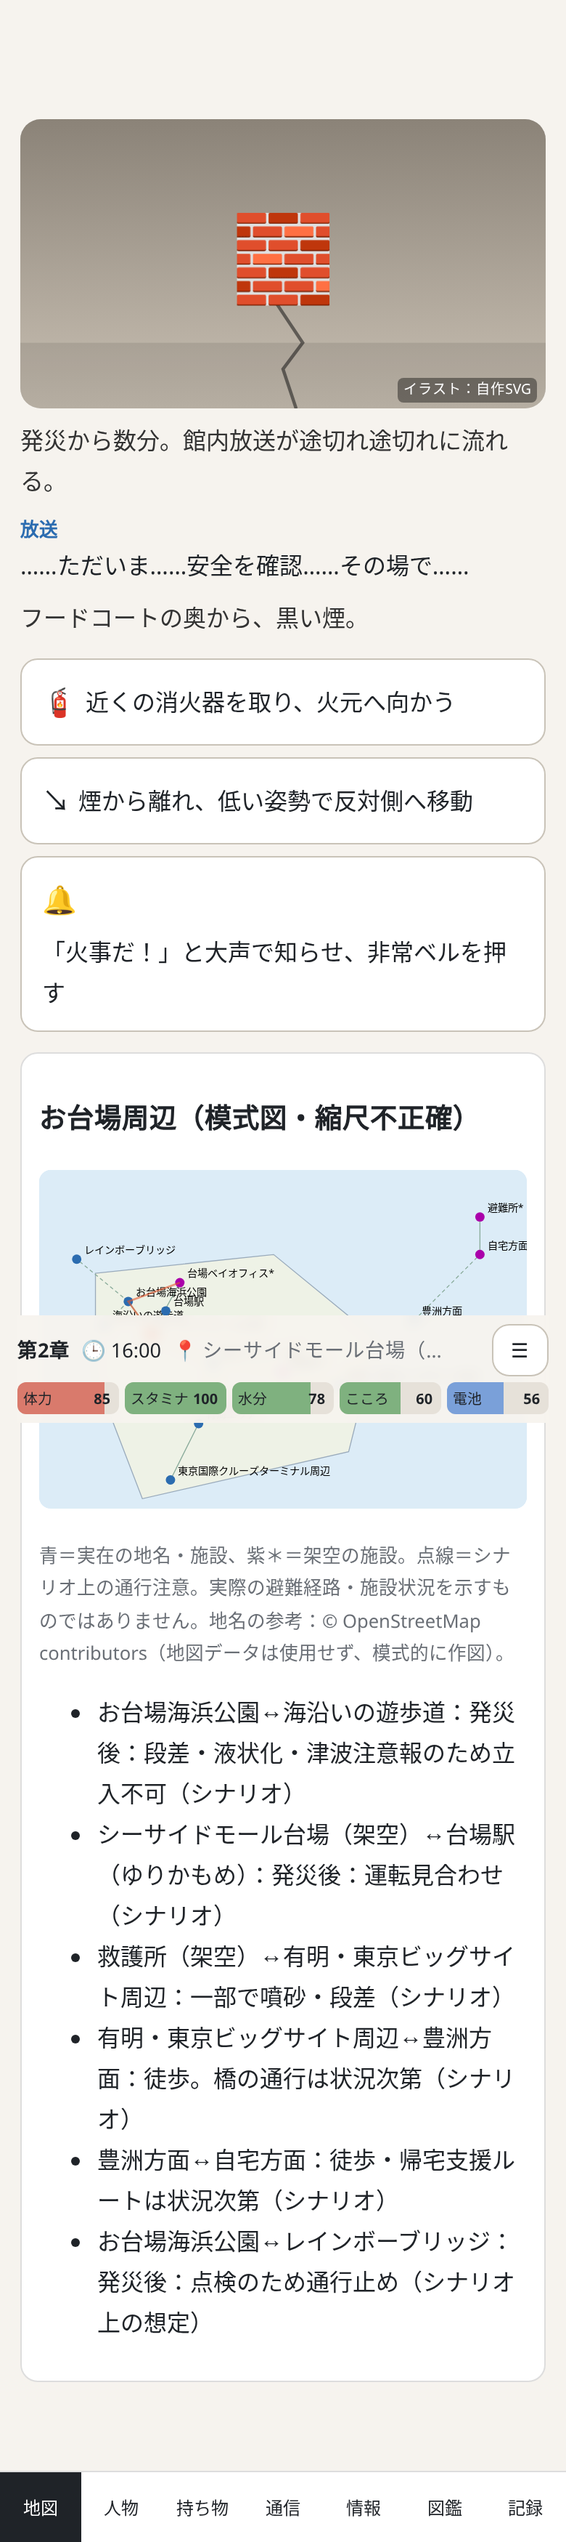
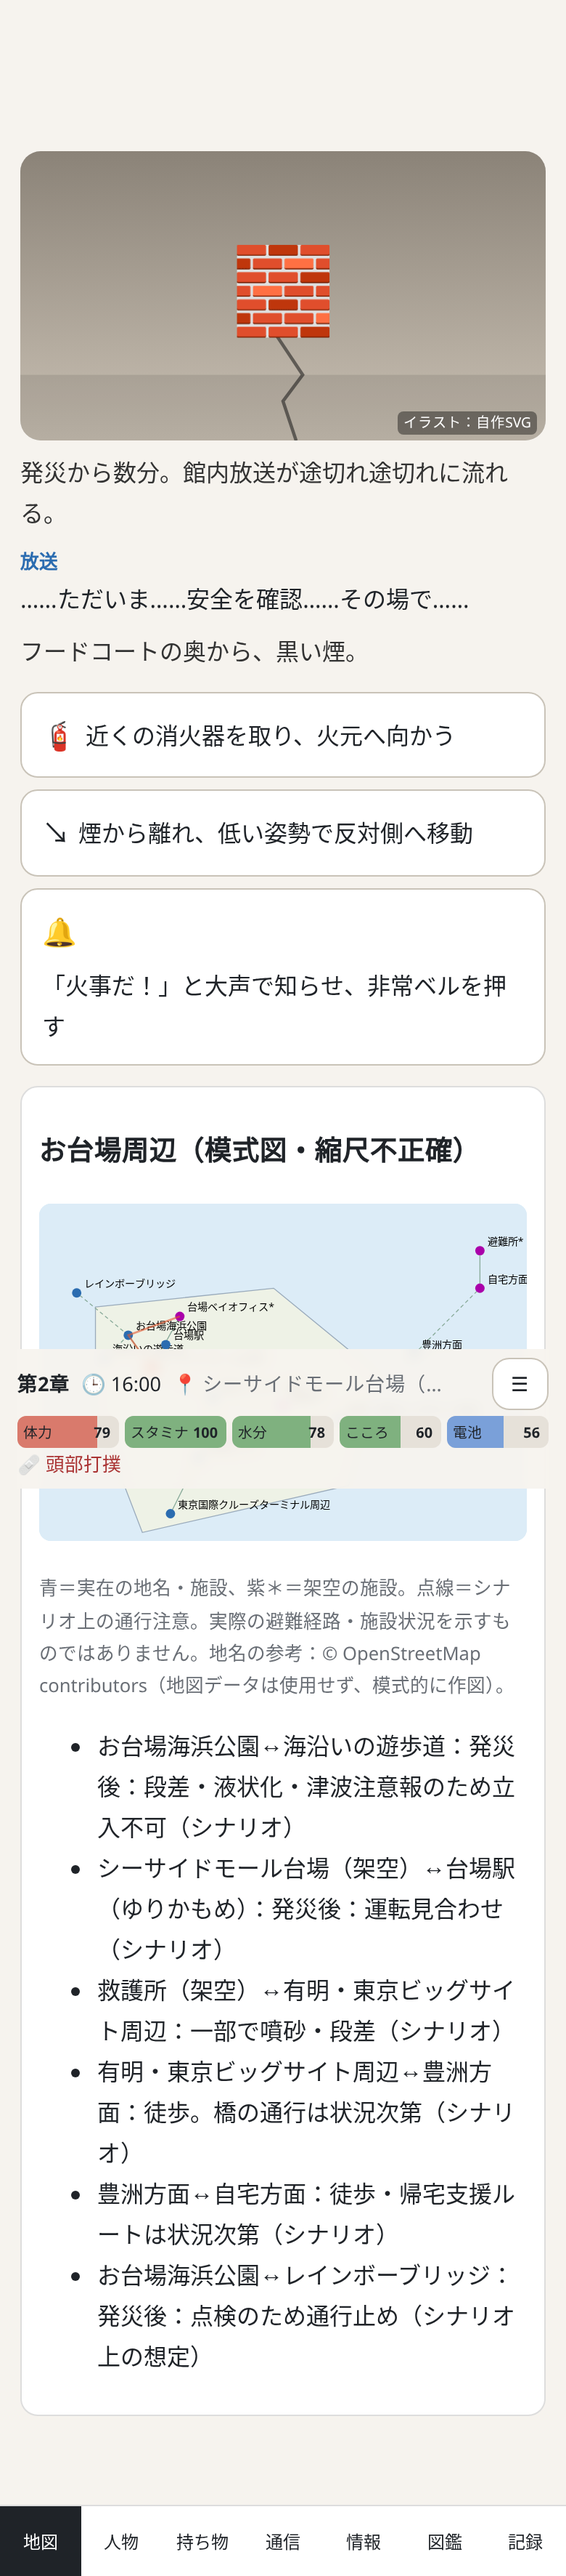
Stage 13: ch3 night route interludes

diff --git a/src/data/scenes6z.ts b/src/data/scenes6z.ts
@@ -109,5 +109,137 @@ export const ch6z: Scene[] = [
     ['同僚', '安藤さん！'],
     ['{fam1}', 'はい、今行きます。'],
   ], { next: 'c2_end' }),
+  // ==== Stage 13: ch3 ルート別「夜の入口」 ====
+  S('c3w_nA', 3, 'crowd', [
+    ['', '施設の入口近くで、職員が、段ボールを配っていた。床に敷くための段ボール。一人一枚。'],
+    ['職員', '床は冷えます。直接寝ないで、一枚でも敷いてください（※この施設は架空です）。'],
+    ['', '{me}は、段ボールを受け取った。飲料メーカーのロゴ。「天然水 2L×6」。中身は、もう、ない。'],
+    ['', '仕事柄、段ボールの扱いには慣れている。{me}は、それを二つに折り、角を重ねて、少しでも厚みが出るように敷いた。手が、勝手に動いた。毎日やっていることだから。'],
+    ['', '隣で、スーツ姿の年配の男が、段ボールの前で途方に暮れていた。どこを折ればいいのか、分からないらしい。'],
+  ], { choices: [
+      C('box_help', '「こう折ると、少し厚くなりますよ」と、やってみせる', 'c3w_nB', { icon: '📦', effects: { mental: 3, flag: 'helped_box' }, result: '男は、何度もうなずいて、真似をした。「長いこと、紙の上の仕事しかしてこなかったもので」。照れくさそうに笑う顔は、陽菜のクラスの、校長先生に少し似ていた。' }),
+      C('box_self', '自分の場所を整えて、早めに体を休める', 'c3w_nB', { icon: '🛌', effects: { stamina: 3 }, result: '段ボールの上に座ると、床の冷たさが、ほんの少し遠くなった。たった一枚の紙が、こんなに違う。' }),
+    ] }),
+  S('c3w_nB', 3, 'crowd', [
+    ['', '夜八時を過ぎたころ、配給の列ができた。水のペットボトルが一本と、乾パンの缶が一つ。'],
+    ['', '{me}は、缶を開けた。乾パンの間に、小さな袋が入っていた。氷砂糖。陽菜が、ずっと前に、防災訓練で食べて「宝石みたい」と言っていたやつだ。'],
+    ['', '{me}は、氷砂糖を一つ、口に入れた。甘さが、ゆっくりと、舌の上で溶けていく。宝石みたい、とは思わなかった。ただ、甘かった。それで、十分だった。'],
+    ['', '残りの氷砂糖を、ハンカチに包んで、胸ポケットにしまった。陽菜に、見せよう。「パパ、宝石、もらったよ」って。'],
+    ['', '水は、半分だけ飲んだ。一気に飲みたかった。でも、明日の朝、もう一本もらえるとは限らない（※配給の内容・頻度は架空・要監修）。'],
+  ], { onEnter: { know: 'k_water' }, next: 'c3w_nC' }),
+  S('c3w_nC', 3, 'crowd', [
+    ['', '照明が半分に落とされた。ホールのあちこちで、スマホの画面だけが、小さな青い窓のように光っている。'],
+    ['', '{me}は、手帳を開いた。白いページ。ボールペンの先を、何度か紙に押し当てて、それから、書きはじめた。'],
+    ['', '「ひなへ。パパは、だいじょうぶです。きょうは、おだいばの、大きなたてものに、とまります。ここには、たくさんの人がいて、みんなで、ねます。」'],
+    ['', '「ひなの、おりがみのおてがみ、まだ、あけてないよね。パパも、ひなに、おてがみをかいたよ。あうときに、こうかんしよう。」'],
+    ['', 'ひらがなだけで書くのは、思ったより難しかった。漢字を使いそうになって、何度も手が止まった。陽菜は、二年生だ。漢字は、まだ、少ししか読めない。'],
+    ['', '最後に、{me}は、下手くそな餃子の絵を描いた。六十個は、描けなかった。三つだけ。三人分。'],
+  ], { next: 'c3w_nD' }),
+  S('c3w_nD', 3, 'crowd', [
+    ['', '夜中、床が揺れた。'],
+    ['', 'ホールのあちこちで、短い悲鳴が上がった。誰かが、「大丈夫、大丈夫」と、自分に言い聞かせるように繰り返している。天井の照明が、かすかに鳴った。'],
+    ['', '揺れは、すぐにおさまった。余震だ。大きな地震のあとは、しばらく余震が続くことがある（※k_aftershock）。分かっている。分かっていても、心臓は、言うことを聞かない。'],
+    ['', '{me}は、手帳を胸に抱いたまま、天井を見上げていた。陽菜も、今、どこかで、この揺れを感じたのだろうか。千夏の腕の中で。体育館の、冷たい床の上で。'],
+    ['', '（大丈夫。千夏がいる。千夏は、おれより、ずっと、しっかりしてる）'],
+    ['', 'そう思ったら、なぜか、少し笑えた。笑ったら、目の奥が、熱くなった。{me}は、腕で目を覆った。誰にも、見られないように。'],
+  ], { onEnter: { know: 'k_aftershock' }, next: 'c3w_nE' }),
+  S('c3w_nE', 3, 'crowd', [
+    ['', '眠れないまま、トイレに立った。廊下の窓から、外が見えた。'],
+    ['', '街の灯りが、ところどころ、欠けていた。いつもなら、隙間なく光っているはずの夜景に、黒い穴が、いくつも空いている。'],
+    ['', 'それでも、灯りは、まだ、たくさん残っていた。あの一つ一つの下に、誰かがいる。誰かを待っている誰かがいる。'],
+    ['', 'トイレの前には、細い列ができていた。誰も、文句を言わなかった。列の一番後ろで、{me}は、長い時間、待った。待つのは、もう、慣れた。今日一日で、一生分、待った気がする。'],
+    ['', '戻ると、さっきのスーツの男が、小さないびきをかいていた。その音が、なぜか、{me}を安心させた。人が眠れる場所に、自分はいる。'],
+  ], { onEnter: { know: 'k_infection' }, next: 'c3_hub' }),
+
+  S('c3s_nA', 3, 'crowd', [
+    ['', '施設の受付の横に、手書きの貼り紙があった。「外国語の分かる方、お手伝いをお願いします」（※この施設は架空です）。'],
+    ['', '{me}は、少し迷った。英語は、大学の授業で習った程度。ゼミの留学生と、片言で話すくらい。'],
+    ['', '受付の前では、ベトナム語らしい言葉で話す若い女性が、職員に何かを必死に伝えようとしていた。職員は、困った顔で、身振り手振りを繰り返している。'],
+  ], { choices: [
+      C('help_trans', '「英語なら、少しだけ」と、手を挙げる', 'c3s_nB', { icon: '🙋', effects: { mental: 2, flag: 'helped_trans', know: 'k_foreign' }, result: '女性は、ほっとしたように、英語に切り替えた。「薬。母の、薬。バッグに、入れてきた。でも、飲む時間、分からない」。{me}の英語は、ぎこちなかった。それでも、言葉は、ちゃんと、届いた。' }),
+      C('find_lin', '近くにいた留学生ボランティアを呼んでくる', 'c3s_nB', { icon: '🏃', effects: { flag: 'helped_trans', know: 'k_foreign' }, result: '腕章をつけた留学生——リンと名乗った——が、すぐに来てくれた。ベトナム語で二言三言。女性の顔から、すっと力が抜けた。言葉が通じるということは、それだけで、手当てなのだと思った。' }),
+    ] }),
+  S('c3s_nB', 3, 'crowd', [
+    ['', '騒ぎがおさまると、{me}は、ホールの壁際に座りこんだ。'],
+    ['', '隣には、九十歳近いおばあさんが、ちょこんと座っていた。白い割烹着のような上着。小さな手提げ袋を、膝の上で、ぎゅっと握っている。'],
+    ['おばあさん', 'お嬢さん、大学生？'],
+    ['{me}', 'はい。……民俗学、やってます。'],
+    ['おばあさん', 'みんぞくがく。昔のことを調べる学問ね。'],
+    ['{me}', '昔の人が、どうやって暮らしてたか、とか。どうやって、災害を乗り越えてきたか、とか。'],
+    ['おばあさん', 'あら。じゃあ、今日のことも、いつか、誰かに調べられるのかしらね。'],
+    ['', 'おばあさんは、楽しそうに笑った。{me}は、笑えなかった。今日のことが、いつか、本のページになる。誰かのゼミの、レジュメになる。'],
+  ], { next: 'c3s_nC' }),
+  S('c3s_nC', 3, 'crowd', [
+    ['おばあさん', 'わたしね、小さいとき、空襲で、家が焼けたの。'],
+    ['', 'おばあさんは、手提げ袋の口を、指先でいじりながら言った。'],
+    ['おばあさん', 'そのあとも、いろいろあったわ。台風も、地震も。でも、そのたびに、誰かが、おにぎりをくれたの。知らない人よ。名前も知らない人。'],
+    ['おばあさん', 'だからね、わたし、今日、知らない人に、飴をあげたの。三つ。もう、ないけど。'],
+    ['', 'おばあさんは、空っぽになった飴の袋を、{me}に見せた。誇らしそうに。'],
+    ['', '{me}は、祖母の顔を思い出した。猫のスタンプ。羊羹。「葵ちゃん、ちゃんと食べてる？」。祖母も、きっと、同じことをする人だ。どこにいても。'],
+    ['', '{me}は、ノートを取り出した。ゼミで使っている、聞き取り調査用のノート。最初のページに、日付を書いた。それから、「話者：青海の施設で隣に座った女性（九十歳近い）」と書いた。'],
+  ], { next: 'c3s_nD' }),
+  S('c3s_nD', 3, 'crowd', [
+    ['', '夜が深くなると、充電の列ができた。施設に、いくつか延長コードが用意されていて、一人十五分ずつ（※充電の運用は架空・要監修）。'],
+    ['', '{me}の前に並んでいた高校生の男の子が、自分の番が来ると、振り返って言った。'],
+    ['男の子', 'あの……おれ、もう、親と連絡ついたんで。先、どうぞ。'],
+    ['{me}', 'え、でも——'],
+    ['男の子', 'いいんです。お姉さん、さっきから、ずっと画面見てるから。'],
+    ['', '{me}は、顔が熱くなった。見られていた。蓮のメッセージ欄を、何度も開いては閉じるのを。'],
+    ['', '十五分で、電池は、六パーセント増えた。たった六パーセント。でも、六パーセントあれば、もう一度、蓮に送れる。もう一度、171を聞ける（※k_battery）。'],
+  ], { onEnter: { know: 'k_battery', battery: 6 }, next: 'c3s_nE' }),
+  S('c3s_nE', 3, 'crowd', [
+    ['', '夜中、余震が来た。短く、鋭く。'],
+    ['', '{me}は、反射的に頭を抱えた。隣のおばあさんは、ぴくりともしなかった。目を閉じたまま、小さく、何かを唱えている。お経のような、歌のような。'],
+    ['', '揺れがおさまると、おばあさんは、目を開けて言った。'],
+    ['おばあさん', '大丈夫。揺れたら、また、おさまるの。いつも、そう。'],
+    ['', 'その言葉は、科学ではなかった。統計でも、防災の知識でもなかった。でも、{me}は、ノートに、それを書き留めた。「揺れたら、また、おさまる」。'],
+    ['', '書き終えて、顔を上げると、ホールの高い窓の向こうで、月が、少しだけ傾いていた。'],
+  ], { onEnter: { know: 'k_aftershock' }, next: 'c3_hub' }),
+
+  S('c3p_nA', 3, 'crowd', [
+    ['', '施設の隅に、「乳幼児のいる方」と書かれた貼り紙があった。仕切りのパネルで囲まれた、小さな一角（※この施設・運用は架空です）。'],
+    ['職員', 'お子さん連れの方は、こちらもお使いください。夜泣きなど、お互いさまなので。'],
+    ['', '{me}は、律を抱いて、その一角に入った。中には、三組の家族がいた。赤ちゃんを抱いた夫婦。双子の女の子を連れたおばあちゃん。それから、律と同じくらいの男の子を連れた、若い父親。'],
+    ['若い父親', '……どうも。'],
+    ['{me}', 'どうも。'],
+    ['', '二人の父親は、目を合わせて、小さく頭を下げた。それだけで、何かが、通じた気がした。'],
+  ], { onEnter: { know: 'k_vulnerable' }, next: 'c3p_nB' }),
+  S('c3p_nB', 3, 'crowd', [
+    ['', '律と、若い父親の息子——ユウと呼ばれていた——は、すぐに仲良くなった。五歳同士は、自己紹介に、言葉をほとんど必要としない。'],
+    ['{fam2}', 'ぼく、りつ。きょう、うみ、いった。'],
+    ['ユウ', 'ぼくも、うみ、いった。ゆれた。'],
+    ['{fam2}', 'ゆれたね。'],
+    ['ユウ', 'ゆれた。'],
+    ['', 'それだけ言うと、二人は、段ボールの上で、光らなくなった律の靴を、交互に踏み始めた。光らない。光らない。それが、なぜか、おかしいらしい。二人は、転げるように笑った。'],
+    ['若い父親', '……笑ってる。今日、初めて。'],
+    ['', '若い父親の声が、少し、震えていた。{me}は、何も言わなかった。言わなくても、分かったから。'],
+  ], { next: 'c3p_nC' }),
+  S('c3p_nC', 3, 'crowd', [
+    ['', '夜十時。律が、ぐずり始めた。'],
+    ['{fam2}', 'ママ……ママは？'],
+    ['', '今日、何度目かの質問だった。今までは、「お仕事だよ」で、なんとか済んできた。でも、夜は、違う。夜は、ママが、絵本を読んでくれる時間だ。'],
+    ['{fam2}', 'ママがいい。ママの、ほん、よんで。'],
+  ], { choices: [
+      C('story_make', '絵本がないので、即興でお話を作って聞かせる', 'c3p_nD', { icon: '📖', effects: { mental: 4, flag: 'told_story' }, result: '「むかしむかし、光らない靴がありました。靴は、今日、たくさん走って、とても疲れていました」。お話は、めちゃくちゃだった。途中で、靴が海に行ったり、貝殻と友達になったりした。律は、最後まで聞かずに、眠った。' }),
+      C('story_song', '美咲がいつも歌う子守歌を、思い出しながら歌う', 'c3p_nD', { icon: '🎵', effects: { mental: 3 }, result: '歌詞は、半分しか覚えていなかった。残りの半分は、ハミングでごまかした。律は、健司の胸に耳を当てて、「パパ、へた」と言った。それから、すうっと眠った。' }),
+    ] }),
+  S('c3p_nD', 3, 'crowd', [
+    ['', '律が眠ると、健司は、ようやく、自分の体の重さに気づいた。肩が、腕が、腰が、鉛のように重い。今日一日、ずっと、律を抱いて、走って、歩いて、立っていた。'],
+    ['', '若い父親が、紙コップを差し出した。水。'],
+    ['若い父親', 'ずっと座ってると、足、むくみますよ。うちの嫁、看護師で。ときどき足首、回せって、うるさいんです（※エコノミークラス症候群の予防・k_dvt）。'],
+    ['{me}', '……うちも、看護師です。'],
+    ['若い父親', 'え。'],
+    ['', '二人は、顔を見合わせて、それから、声を殺して笑った。看護師の夫同士。今ごろ、二人の妻は、どこかの病院で、眠らずに働いている。'],
+    ['', '健司は、言われたとおり、足首をゆっくり回した。美咲に、ちゃんとやったよ、と報告できるように。'],
+  ], { onEnter: { know: 'k_dvt' }, next: 'c3p_nE' }),
+  S('c3p_nE', 3, 'crowd', [
+    ['', '深夜、律が、突然、泣き叫んだ。'],
+    ['{fam2}', 'やだ！ゆれる！ゆれる！'],
+    ['', '揺れては、いなかった。夢だ。律は、目を閉じたまま、手足をばたつかせている。'],
+    ['', '健司は、律を抱きしめた。強すぎないように。でも、離さないように。「大丈夫。パパ、いるよ。パパ、ここにいるよ」。何度も、何度も。'],
+    ['', '子どもは、怖い体験のあと、夜泣きや、甘えが強くなることがある。それは、異常なことではない、と、いつか美咲が言っていた（※子どもの心のケア・k_mental・要監修）。'],
+    ['', 'やがて、律の手足から、力が抜けた。小さな寝息。健司の胸のシャツが、律の涙と鼻水で、ぐっしょりと濡れていた。'],
+    ['', '仕切りの向こうで、誰かが、小さく「おつかれさま」と言った。誰の声かは、分からなかった。'],
+  ], { onEnter: { know: 'k_mental' }, next: 'c3_hub' }),
 // @@END
 ];

diff --git a/src/data/scenes2.ts b/src/data/scenes2.ts
@@ -28,8 +28,8 @@ export const ch3: Scene[] = [
     ['拓海', 'じゃあ、夜までに、帰らないとな。'],
     ['', '拓海は、そう言ってから、自分の言葉の重さに気づいたように、黙った。今夜、帰れるかどうか、二人とも、分からなかった。'],
   ], { choices: [
-      C('save', 'スマホを省電力モードにして、画面を消す', 'c3_hub', { icon: '🔋', effects: { battery: 3, know: 'k_comm' }, result: '画面の明るさを、一番下まで落とした。陽菜の笑顔が、暗い画面の向こうに沈んでいった。また、明るいところで見よう。' }),
-      C('note', '手帳に、陽菜の学校と千夏の会社の住所を書き写す', 'c3_hub', { icon: '📝', effects: { flag: 'wrote_addresses' }, result: 'スマホが消えても、この紙は消えない。ボールペンの字は、震えて、ひどく読みにくかった。それでも、読めた。' }),
+      C('save', 'スマホを省電力モードにして、画面を消す', 'c3w_nA', { icon: '🔋', effects: { battery: 3, know: 'k_comm' }, result: '画面の明るさを、一番下まで落とした。陽菜の笑顔が、暗い画面の向こうに沈んでいった。また、明るいところで見よう。' }),
+      C('note', '手帳に、陽菜の学校と千夏の会社の住所を書き写す', 'c3w_nA', { icon: '📝', effects: { flag: 'wrote_addresses' }, result: 'スマホが消えても、この紙は消えない。ボールペンの字は、震えて、ひどく読みにくかった。それでも、読めた。' }),
     ] }),
   S('c3s_dusk', 3, 'crowd', [
     ['', '葵は、広場の植え込みの縁に腰かけて、靴を脱いだ。かかとに、靴ずれができていた。今日は、歩くつもりのない靴で来ていた。'],
@@ -41,8 +41,8 @@ export const ch3: Scene[] = [
     ['女の子', 'ありがとう。……なんか、おばあちゃんみたいな絆創膏ですね。'],
     ['', '葵は、声を出して笑った。地震のあと、初めて笑った。'],
   ], { choices: [
-      C('exchange', '連絡先を交換して、お互いの無事を知らせ合う約束をする', 'c3_hub', { icon: '🤝', effects: { mental: 4, flag: 'met_traveler' }, result: '「無事に飛べたら、連絡します」。「飛べなくても、連絡して」。二人は、そう言い合って、少しだけ、また笑った。' }),
-      C('rest', 'かかとの手当てをして、少し休む', 'c3_hub', { icon: '🩹', effects: { stamina: 4 }, result: 'もう一枚の絆創膏を、自分のかかとに貼った。祖母の匂いがする気がした。気のせいだと分かっていても。' }),
+      C('exchange', '連絡先を交換して、お互いの無事を知らせ合う約束をする', 'c3s_nA', { icon: '🤝', effects: { mental: 4, flag: 'met_traveler' }, result: '「無事に飛べたら、連絡します」。「飛べなくても、連絡して」。二人は、そう言い合って、少しだけ、また笑った。' }),
+      C('rest', 'かかとの手当てをして、少し休む', 'c3s_nA', { icon: '🩹', effects: { stamina: 4 }, result: 'もう一枚の絆創膏を、自分のかかとに貼った。祖母の匂いがする気がした。気のせいだと分かっていても。' }),
     ] }),
   S('c3p_dusk', 3, 'crowd', [
     ['', '律が、健司の膝の上で、眠りかけていた。昼寝の時間を、とっくに過ぎている。まぶたが、落ちては、はっと開き、また落ちる。'],
@@ -56,8 +56,8 @@ export const ch3: Scene[] = [
     ['', '小さな袋に、ビスケットは、七枚しか入っていなかった。律は、それを、真剣な顔で数えて、四枚を健司の手のひらに置いた。'],
     ['律', 'パパ、おおきいから、おおい。'],
   ], { choices: [
-      C('eat', '一枚だけ食べて、残りは律のために取っておく', 'c3_hub', { icon: '🐟', effects: { mental: 4, flag: 'saved_biscuit' }, result: '一枚を口に入れた。甘くて、少し塩辛い。残りの三枚を、そっと袋に戻した。夜中に、律がお腹をすかせて起きたときのために。' }),
-      C('all', '「ありがとう」と、四枚全部を一緒に食べる', 'c3_hub', { icon: '😋', effects: { stamina: 2, mental: 3 }, result: '二人で、一枚ずつ、ゆっくり食べた。律は、最後の一枚を食べ終えると、満足そうに、健司の胸で眠った。' }),
+      C('eat', '一枚だけ食べて、残りは律のために取っておく', 'c3p_nA', { icon: '🐟', effects: { mental: 4, flag: 'saved_biscuit' }, result: '一枚を口に入れた。甘くて、少し塩辛い。残りの三枚を、そっと袋に戻した。夜中に、律がお腹をすかせて起きたときのために。' }),
+      C('all', '「ありがとう」と、四枚全部を一緒に食べる', 'c3p_nA', { icon: '😋', effects: { stamina: 2, mental: 3 }, result: '二人で、一枚ずつ、ゆっくり食べた。律は、最後の一枚を食べ終えると、満足そうに、健司の胸で眠った。' }),
     ] }),
   S('c3_hub', 3, 'crowd', [
     ['拓海', 'なあ。モールの奥に、まだ人が残ってるって。煙の向こうから声がした。'],

diff --git a/COUNTS.md b/COUNTS.md
@@ -70,3 +70,8 @@
 - scenes 331 / choices 338 / dialogue 1,318
 - 生存者平均 87.4 / 82.4 / 83.5分、死亡率24.1%、全10エンディング到達
 - 学校の引き渡し・建物の危険度判定の記述は要監修
+
+## Stage 13（ch3「夜の入口」ルート別5場面×3）
+- scenes 346 / choices 344 / dialogue 1,408
+- 生存者平均 91.7 / 85.8 / 86.9分、死亡率24.4%、全10エンディング到達
+- 配給・充電運用・子どもの心のケアの記述は要監修（施設は架空）
